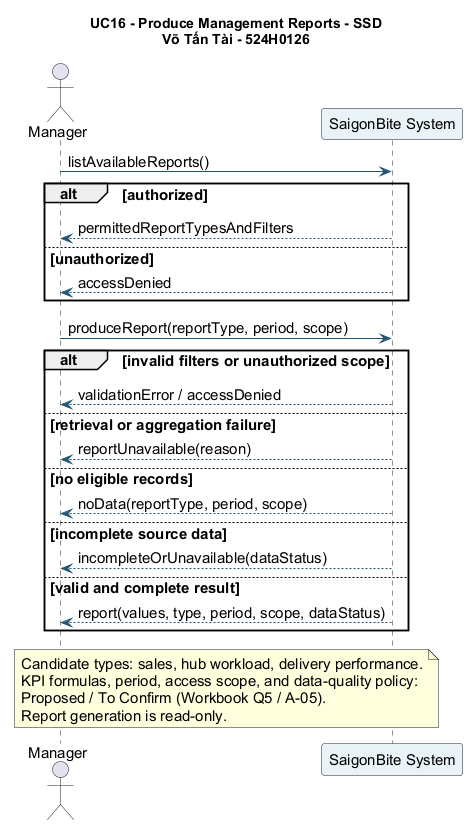
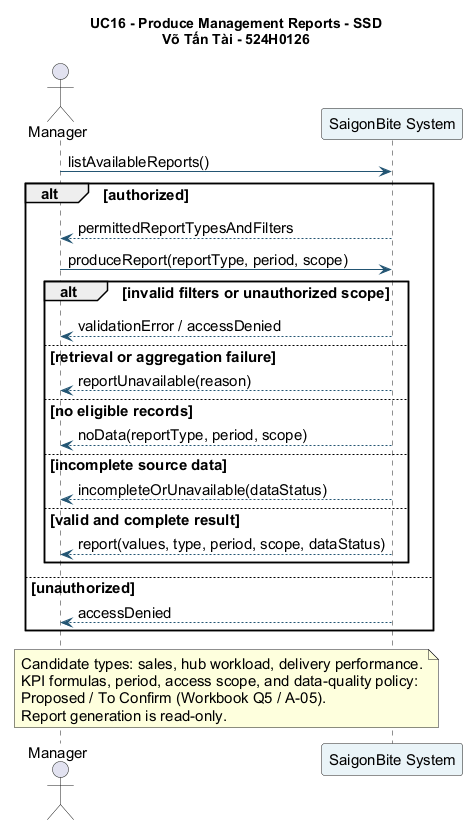
docs(tai): finalize sprint1 part2 deliverables

Changed region(s): [[0.0297, 0.2106, 0.9195, 0.7822], [0.0593, 0.7521, 0.089, 0.7822]]

diff --git a/TAI_FINAL_CHECKLIST.md b/TAI_FINAL_CHECKLIST.md
@@ -1,0 +1,39 @@
+# Tài Final Checklist — SaigonBite Sprint 1 Part 2
+
+**Owner:** Võ Tấn Tài — 524H0126
+**Branch:** `feature/tai-uc13-uc16`
+**Review standard:** PASS means the named artifact or technical property was directly checked. It does not imply client approval. FAIL marks an observed contradiction. NOT VERIFIED marks a requirement whose source or approval evidence is unavailable.
+
+| Requirement | File path | Status | Evidence | Remaining issues |
+|---|---|---|---|---|
+| UC13 Use Case Description | [UC13.md](docs/sprint1/UC13_ManageHubs/UC13.md) | PASS | Goal, actor, trigger, pre/postconditions, one Create main flow, alternatives, exceptions and rules reviewed. | Actor, capacity and deletion rules are Proposed. |
+| UC13 Activity Diagram | [13-activity.puml](docs/sprint1/UC13_ManageHubs/diagrams/13-activity.puml), [PNG](docs/sprint1/UC13_ManageHubs/diagrams/13-activity.png) | PASS | PlantUML syntax/render and visual review; CRUD/error branches present. | Business rules remain unapproved. |
+| UC13 SSD | [13-ssd.puml](docs/sprint1/UC13_ManageHubs/diagrams/13-ssd.puml), [PNG](docs/sprint1/UC13_ManageHubs/diagrams/13-ssd.png) | PASS | Actor/system boundary, CRUD events and responses checked; operations are inside authorized-view branch. | Operation-level permission matrix To Confirm. |
+| UC13 Design Classes | [UC13-design.md](docs/sprint1/UC13_ManageHubs/UC13-design.md) | PASS | Boundary/View, Controller, Domain, Data Access, attributes, methods and visibility listed. | Value types and rules are conceptual. |
+| UC13 Design Class Diagram | [13-design-class.puml](docs/sprint1/UC13_ManageHubs/diagrams/13-design-class.puml), [PNG](docs/sprint1/UC13_ManageHubs/diagrams/13-design-class.png) | PASS | PlantUML syntax/render and visual review; layer relationships present. | Removal policy pending. |
+| UC13 CRC Cards | [UC13-design.md](docs/sprint1/UC13_ManageHubs/UC13-design.md) | PASS | Six classes have responsibilities and collaborators. | No client validation. |
+| UC13 CRUD Verification table | [UC13-design.md](docs/sprint1/UC13_ManageHubs/UC13-design.md) | PASS | Create/Read/Update/Delete rows include preconditions, expected results and errors. | Delete/archive policy pending. |
+| UC13 CRUD coverage approved | [workbook](references/TeamF4_RAD_Team_Workbook_Part1.xlsx) | NOT VERIFIED | Workbook CRUD Check shows `Gap` for unconfirmed Delete. | Confirm role and removal/dependency policy; then re-check. |
+| UC16 Use Case Description | [UC16.md](docs/sprint1/UC16_ManagementReports/UC16.md) | PASS | Goal, Manager, trigger, pre/postconditions, main/alternative/exception flows and rules reviewed. | KPI, period, scope permissions To Confirm. |
+| UC16 Activity Diagram | [16-activity.puml](docs/sprint1/UC16_ManagementReports/diagrams/16-activity.puml), [PNG](docs/sprint1/UC16_ManagementReports/diagrams/16-activity.png) | PASS | PlantUML syntax/render and visual review; access, no-data, incomplete and failure paths shown. | Data-quality rule To Confirm. |
+| UC16 SSD | [16-ssd.puml](docs/sprint1/UC16_ManagementReports/diagrams/16-ssd.puml), [PNG](docs/sprint1/UC16_ManagementReports/diagrams/16-ssd.png) | PASS | Actor/system boundary and alternate responses checked; report request is inside authorized branch. | Scope permission matrix To Confirm. |
+| UC16 Design Classes | [UC16-design.md](docs/sprint1/UC16_ManagementReports/UC16-design.md) | PASS | Boundary, Controller, Domain, Data Access, attributes, methods and visibility listed. | Definition types and formulas To Confirm. |
+| UC16 Design Class Diagram | [16-design-class.puml](docs/sprint1/UC16_ManagementReports/diagrams/16-design-class.puml), [PNG](docs/sprint1/UC16_ManagementReports/diagrams/16-design-class.png) | PASS | PlantUML syntax/render and visual review; read-only source relationship shown. | Source mapping To Confirm. |
+| UC16 CRC Cards | [UC16-design.md](docs/sprint1/UC16_ManagementReports/UC16-design.md) | PASS | Eight class cards have responsibilities and collaborators. | No client validation. |
+| Overall Domain Class Model | [06-overall-domain.puml](docs/sprint1/shared/domain-model/06-overall-domain.puml), [PNG](docs/sprint1/shared/domain-model/06-overall-domain.png) | PASS | Nine conceptual classes including proposed OrderMilestone and derived ManagementReport, no UI/Controller/Repository; PlantUML rendered. | Draft from separate team branches needs integration review. |
+| Domain attributes and relationships | [model notes](docs/sprint1/shared/domain-model/06-overall-model-notes.md) | PASS | Attribute and association inventory traced to Thành's model, Tài's drafts and Khang's branch. | Proposed fields are not approved. |
+| Multiplicities drawn and documented | [06-overall-domain.puml](docs/sprint1/shared/domain-model/06-overall-domain.puml), [model notes](docs/sprint1/shared/domain-model/06-overall-model-notes.md) | PASS | Five core cardinalities preserved; proposed Brand and OrderMilestone cardinalities labelled. | Hub-to-MenuItem cardinality deliberately unencoded. |
+| Proposed multiplicities approved | [model notes](docs/sprint1/shared/domain-model/06-overall-model-notes.md) | NOT VERIFIED | No official Case Study/client answer confirms Brand, milestone or hub catalogue cardinalities. | Confirm before final model baseline. |
+| State Machine source and image | [07-overall-order-state.puml](docs/sprint1/shared/domain-model/07-overall-order-state.puml), [PNG](docs/sprint1/shared/domain-model/07-overall-order-state.png) | PASS | PlantUML rendered; choice splits COD/online proposed paths; UC07/UC10 transitions inspected. | Not a canonical Order status contract. |
+| Cross-six Order state consistency | [model notes](docs/sprint1/shared/domain-model/06-overall-model-notes.md) | FAIL | Khang's separate branch uses `PENDING_CONFIRMATION`, `ACCEPTED`, `READY_FOR_PICKUP`, `DELIVERY_FAILED`; Thành uses `Pending`, `Confirmed`, `Ready`, `Failed`. Reject leads to `CANCELLED` versus `Rejected`. | Team must agree status mapping, rejection outcome, payment/expiry and capacity release. |
+| Report Contribution | [report draft](docs/sprint1/tai-rad-report-contribution.md) | PASS | Sections I–III draft explains eight figures and links to existing PNGs. | Official template unavailable. |
+| Official RAD report completion | [report draft](docs/sprint1/tai-rad-report-contribution.md) | NOT VERIFIED | No official template or final integrated team report in this branch. | Obtain template; integrate and paginate with team. |
+| Workbook Contribution | [workbook](references/TeamF4_RAD_Team_Workbook_Part1.xlsx) | PASS | 13 sheets retained, formulas preserved, no cached formula errors; Tài ownership, Draft requirements, CRUD gap, contribution and AI log checked. Other members' cells unchanged. | Commit count is a snapshot through `af1fa21`; Q5 and UC13 scope remain open. |
+| UML source files | [UC13](docs/sprint1/UC13_ManageHubs/diagrams/13-activity.puml), [UC16](docs/sprint1/UC16_ManagementReports/diagrams/16-activity.puml), [overall](docs/sprint1/shared/domain-model/06-overall-domain.puml) | PASS | All 31 repository `.puml` files, including Tài's eight, passed `-checkonly`. | Khang's separate `.drawio` files were not PlantUML-checked. |
+| PNG output files | [figure register](docs/sprint1/tai-rad-report-contribution.md) | PASS | Eight PNGs re-rendered after corrections; all eight byte hashes match source renders, and changed PNGs were visually inspected. | Final report placement remains open. |
+| Author information | [report draft](docs/sprint1/tai-rad-report-contribution.md), [README](docs/sprint1/tai/README.md) | PASS | Võ Tấn Tài — 524H0126 is present in documents and all eight diagrams. | None. |
+| Client-approved business rules | [UC13](docs/sprint1/UC13_ManageHubs/UC13.md), [UC16](docs/sprint1/UC16_ManagementReports/UC16.md) | NOT VERIFIED | Available assumptions are explicitly Proposed / To Confirm; Q5 has no lecturer answer. | Obtain official sources and client decisions. |
+
+## Review boundary
+
+Khang's UC03/UC04 drafts were read from `origin/feature/khang-uc03-uc04` without merging or modifying that branch. Thành's UC07/UC10 files and earlier shared diagrams were not changed. The final readiness decision is **ready for Team F4 review, not yet ready for canonical integration or client approval**.

diff --git a/docs/sprint1/shared/domain-model/06-overall-model-notes.md b/docs/sprint1/shared/domain-model/06-overall-model-notes.md
@@ -2,14 +2,14 @@
 
 **Author:** Võ Tấn Tài — 524H0126
 
-**Status:** Proposed integration model for UC03, UC04, UC07, UC10, UC13 and UC16. This does not replace the UC07/UC10 diagrams by Lê Đỗ Minh Thành. The original Case Study, Final Project Requirements and RAD Report Template are unavailable in the audited files.
+**Status:** Proposed integration model for UC03, UC04, UC07, UC10, UC13 and UC16. This does not replace the UC07/UC10 diagrams by Lê Đỗ Minh Thành. The original Case Study, Final Project Requirements and RAD Report Template are unavailable in the audited files. UC03/UC04 drafts were discovered on `origin/feature/khang-uc03-uc04` during final review; they are not merged into Tài's branch.
 
 ## Evidence and coverage
 
 | Use case | Evidence in repository | Model contribution | Status |
 |---|---|---|---|
-| UC03 Place Order | Placeholder directory only; existing shared flow and UC07 precondition say an Order enters Pending after checkout. | Customer, Order, OrderLine, MenuItem, Hub; initial Pending. | Proposed pending Khang's specification. |
-| UC04 Track Order | Placeholder directory only; UC07 and UC10 state that Customer sees updates through UC04. | Reads Order.status; no state change. | Proposed pending Khang's specification. |
+| UC03 Place Order | Khang's draft on a separate remote branch specifies COD as `PENDING_CONFIRMATION`, online as `AWAITING_PAYMENT`, plus order/address/price snapshots. The current branch still has only a placeholder. | Customer, Order, OrderLine, MenuItem, Hub; proposed payment status and online waiting state. | Cross-branch draft; not team reconciled. |
+| UC04 Track Order | Khang's draft on a separate remote branch specifies ownership-scoped read, milestones and timestamps. The current branch still has only a placeholder. | Reads Order.status and proposed OrderMilestone; no state change. | Cross-branch draft; not team reconciled. |
 | UC07 Confirm/Reject Order | UC07 description and Thành's domain/state diagrams. | Pending to Confirmed or Rejected; rejectionReason. | Team draft; role/assumptions require confirmation. |
 | UC10 Deliver Order | UC10 description and Thành's domain/state diagrams. | Ready to OutForDelivery, then Delivered or Failed; Shipper, cashCollected, failureReason. | Team draft; COD and assignment rules require confirmation. |
 | UC13 Manage Hubs and Kitchen Capacity | Tài's UC13 draft; no Case Study source. | Hub.capacitySetting; no direct Order state change. | Proposed; UC13/UC14 ownership conflict. |
@@ -25,8 +25,9 @@ UC08 Prepare Order and UC05 Cancel/Edit Order are included only as transitions r
 | Hub | `hubId`; `name`, `capacitySetting` proposed | Existing hub identity; UC13 requests capacity management but does not define unit or bounds. |
 | Brand | `brandId`, `name` proposed | Proposal and workbook mention brand/menu browsing and UC14, but no approved specification is present. |
 | MenuItem | `menuItemId`; `name`, `currentPrice` proposed | Existing menu item identity; browsing and order line pricing imply candidate descriptive fields. |
-| Order | `id`, `status`, `paymentMethod`, `totalDue`, optional `rejectionReason`, `failureReason`, `cashCollected`; `placedAt` proposed | Core fields from Thành's model. `placedAt` is a candidate for report periods and awaits definition. |
-| OrderLine | `quantity`, `unitPrice` | Existing model; `unitPrice` is the price recorded with the order line, not a claim about price-update policy. |
+| Order | `id`, `status`, `paymentMethod`, `totalDue`, optional `rejectionReason`, `failureReason`, `cashCollected`; `paymentStatus`, `deliveryAddressSnapshot`, `clientRequestId`, `placedAt`, `updatedAt` proposed | Core fields from Thành's model; added fields are proposed from Khang's UC03/UC04 drafts on a separate branch. |
+| OrderLine | `quantity`, `unitPrice`; `nameSnapshot` proposed | Existing quantity and unit price; Khang's draft proposes a name snapshot. |
+| OrderMilestone | `status`, `occurredAt` proposed | Khang's UC04 tracking draft uses milestones; persistence and source of timestamps need confirmation. |
 | Shipper | `shipperId` | Existing model. |
 | ManagementReport | `reportType`, `period`, `scope`, `dataStatus` proposed | Derived business result for UC16; persistence is not confirmed. |
 
@@ -40,6 +41,7 @@ No boundary, controller, repository or other software-layer class is included in
 | Hub fulfils Order | Hub `1` to Order `0..*`; each Order has `1` Hub. | Preserved from Thành's domain model; reassignment after overload remains To Confirm. |
 | Shipper assigned to Order | Order has `0..1` current Shipper; Shipper may have `0..*` Orders. | Preserved from Thành's domain model; assignment policy remains To Confirm. |
 | Order contains OrderLine | Order `1` composition to `1..*` OrderLines. | Preserved from Thành's domain model; order editing policy remains To Confirm. |
+| Order records OrderMilestone | Order `1` composition to `0..*` proposed milestones. | **Proposed / To Confirm** from Khang's UC04 draft; event storage and lifecycle need agreement. |
 | OrderLine refers to MenuItem | Each OrderLine refers to `1` MenuItem; a MenuItem may appear in `0..*` OrderLines. | Preserved from Thành's domain model. |
 | Brand groups MenuItem | Each MenuItem has `1` Brand; a Brand has `0..*` MenuItems. | **Proposed / To Confirm**; no UC03/UC04 specification validates this cardinality. |
 | Hub offers MenuItem | Not encoded until cardinality is known. | **To Confirm**; hub-specific availability and an association class may be needed once requirements arrive. |
@@ -49,6 +51,6 @@ Constraints requiring confirmation: hub capacity unit/bounds/effective time; hub
 
 ## Order lifecycle consistency
 
-`Pending` follows a valid UC03 checkout in the existing team flow. UC07 can move `Pending` to `Confirmed` or `Rejected`. UC08 bridges `Confirmed` through `Preparing` to `Ready`. UC10 moves `Ready` to `OutForDelivery`, then to either `Delivered` or `Failed`. Thành's diagram also allows `Pending` to `Cancelled` via UC05. UC04 observes state; UC13 maintains Hub data; UC16 derives read-only reports. Terminal states have no outgoing business transition in the current draft.
+The revised proposed state model shows COD placement into `Pending` and online placement into `AwaitingPayment`. The latter moves to `Pending` only after a verified payment event, or to `Cancelled` on expiry. These online branches come from Khang's UC03 draft and are not yet accepted by the team. UC07 can move `Pending` to `Confirmed` or `Rejected`. UC08 bridges `Confirmed` through `Preparing` to `Ready`. UC10 moves `Ready` to `OutForDelivery`, then to either `Delivered` or `Failed`. Thành's diagram also allows `Pending` to `Cancelled` via UC05. UC04 observes state; UC13 maintains Hub data; UC16 derives read-only reports. Terminal states have no outgoing business transition in this draft.
 
-The state names and transitions are consistent with the available UC07/UC10 drafts and Thành's state diagram. Because UC03/UC04 and the official Case Study are absent, initial state, cancellation eligibility, terminal-state policy and any additional states remain **To Confirm**.
+The two team drafts conflict on state vocabulary and one outcome. Candidate name mappings are `Pending` ↔ `PENDING_CONFIRMATION`, `Confirmed` ↔ `ACCEPTED`, `Ready` ↔ `READY_FOR_PICKUP`, and `Failed` ↔ `DELIVERY_FAILED`. These are **not** approved mappings. Thành's UC07 uses `Rejected`, while Khang's Order lifecycle routes reject to `CANCELLED`; those outcomes cannot be treated as equivalent without a decision about reason, refund and tracking semantics. Khang's `AWAITING_PAYMENT` is absent from Thành's model. The team must settle the canonical status set, payment transitions, cancellation/expiry, capacity release and milestone source before integration. Cross-six consistency **FAILS between the current drafts**; the correct canonical resolution remains **NOT VERIFIED** because the official Case Study is unavailable.

diff --git a/docs/sprint1/tai-rad-report-contribution.md b/docs/sprint1/tai-rad-report-contribution.md
@@ -10,7 +10,7 @@
 | Report section | Contribution to integrate | Evidence / required team action |
 |---|---|---|
 | I. Business Requirements | State that hub management/capacity and management reporting are candidate business capabilities. Record Q1/A-01 for hub overload and Q5/A-05 for report metrics as open assumptions. Identify UC13 versus UC14 ownership conflict. | Team Workbook Client Q&A and Assumption Log; proposal. Do not mark client approval without lecturer response. |
-| II. System Requirements Analysis | Include UC13 and UC16 use case descriptions, Activity and SSD figures; overall domain model and Order state machine; the six-UC consistency and multiplicity notes below. | UC13/UC16 drafts and shared model source files. Confirm UC03/UC04 with Khang and UC07/UC10 with Thành. |
+| II. System Requirements Analysis | Include UC13 and UC16 use case descriptions, Activity and SSD figures; overall domain model and Order state machine; the cross-branch consistency and multiplicity notes below. | UC13/UC16 drafts and shared model source files. Reconcile Khang's UC03/UC04 state terms with Thành's UC07/UC10 before team integration. |
 | III. System Requirements Design | Include UC13 and UC16 boundary/controller/domain/data-access classes, design class diagrams, CRC cards, UC13 CRUD verification and UC16 report logic review. | Design documents and PNG figures listed below. Confirm policies before final design approval. |
 
 The official template may use different numbering or captions. Transfer content only after obtaining it and preserving its headings and instructions.
@@ -41,13 +41,13 @@ The [UC16 use case specification](UC16_ManagementReports/UC16.md) describes a Ma
 
 ### Overall domain class model
 
-**Purpose:** Bring order placement/tracking, kitchen decision, delivery, hub management and reporting into one conceptual vocabulary. **Main components:** `Customer`, `Order`, `OrderLine`, `MenuItem`, `Hub`, `Shipper`, proposed `Brand`, and a derived proposed `ManagementReport`. **Business meaning:** A customer places orders; an order belongs to one hub, contains order lines and may have a current shipper; hub capacity is business data, while a management report is derived rather than a confirmed persistent record. **Related use cases:** UC03, UC04, UC07, UC10, UC13 and UC16. The [model notes](shared/domain-model/06-overall-model-notes.md) record attributes, multiplicities and their evidence. No UI, controller or repository class appears in this diagram.
+**Purpose:** Bring order placement/tracking, kitchen decision, delivery, hub management and reporting into one conceptual vocabulary. **Main components:** `Customer`, `Order`, `OrderLine`, proposed `OrderMilestone`, `MenuItem`, `Hub`, `Shipper`, proposed `Brand`, and a derived proposed `ManagementReport`. **Business meaning:** A customer places orders; an order belongs to one hub, contains order lines and may have a current shipper; tracking milestones and hub capacity are candidate business data, while a management report is derived rather than a confirmed persistent record. **Related use cases:** UC03, UC04, UC07, UC10, UC13 and UC16. The [model notes](shared/domain-model/06-overall-model-notes.md) record attributes, multiplicities and their evidence. No UI, controller or repository class appears in this diagram.
 
-The five core associations and multiplicities match Thành's existing UC07/UC10 model. Brand-to-MenuItem (`1` to `0..*`) is proposed. Hub-to-MenuItem availability is left unencoded until its cardinality is known. `placedAt`, hub capacity details and report attributes are also proposed. No model attribute is presented as a confirmed requirement when its source is absent.
+The five core associations and multiplicities match Thành's existing UC07/UC10 model. Brand-to-MenuItem (`1` to `0..*`) and Order-to-OrderMilestone (`1` to `0..*`) are proposed. Hub-to-MenuItem availability is left unencoded until its cardinality is known. Added payment, address, timestamp, milestone, capacity and report attributes are proposed from the available drafts. No model attribute is presented as a confirmed requirement when its source is absent.
 
 ### Order state machine
 
-**Purpose:** Check that the Order lifecycle agrees with placement, kitchen confirmation/preparation and delivery. **Main components:** `Pending`, `Confirmed`, `Rejected`, `Cancelled`, `Preparing`, `Ready`, `OutForDelivery`, `Delivered` and `Failed`, with event labels and guards. **Business meaning:** UC07 decides a Pending order; UC08 prepares it; UC10 records pickup and final delivery result. UC04 observes state, UC13 manages Hub data and UC16 reads data without moving the Order. **Related use cases:** UC03, UC04, UC07, UC10, UC13 and UC16, with UC05/UC08 shown as necessary neighbouring transitions. The model follows Thành's state diagram without overwriting it. Initial checkout state, cancellation eligibility and full status policy remain To Confirm.
+**Purpose:** Check the proposed Order lifecycle against placement, kitchen confirmation/preparation and delivery. **Main components:** `AwaitingPayment`, `Pending`, `Confirmed`, `Rejected`, `Cancelled`, `Preparing`, `Ready`, `OutForDelivery`, `Delivered` and `Failed`, with event labels and guards. **Business meaning:** Khang's UC03 draft adds an online-payment waiting path; UC07 decides a Pending order; UC08 prepares it; UC10 records pickup and final delivery result. UC04 observes state, UC13 manages Hub data and UC16 reads data without moving the Order. **Related use cases:** UC03, UC04, UC07, UC10, UC13 and UC16, with UC05/UC08 and supporting payment shown as neighbouring transitions. Thành's status names are retained for the fulfilment path, while Khang's different labels and rejection outcome require team reconciliation. The figure is not a canonical state contract.
 
 ## Section III contribution — design model
 
@@ -78,10 +78,11 @@ For PowerPoint, use the same captions in shortened form and keep “Proposed” 
 
 | Check | Result / required follow-up |
 |---|---|
-| UC03 and UC04 files | Only placeholders exist in the repository. Verify Order creation, tracking permissions and catalogue relationships when Khang's specifications arrive. |
+| UC03 and UC04 files | This branch has placeholders. Khang's draft specifications and diagrams are on `origin/feature/khang-uc03-uc04`; they were reviewed without merging. Integrate only after team review. |
 | UC07 and UC10 | The Order lifecycle and core domain associations follow Thành's drafts. Their cited assumptions remain team drafts, not client approvals. |
 | UC13 versus UC14 | Proposal and workbook assign UC14; current task assigns UC13. Team must approve the ownership and scope change. |
 | Capacity and overload | Units, bounds, effective time, routing and customer consent remain open. |
+| Order status vocabulary | Khang uses `PENDING_CONFIRMATION`, `ACCEPTED`, `READY_FOR_PICKUP`, `DELIVERY_FAILED` and `AWAITING_PAYMENT`; Thành uses `Pending`, `Confirmed`, `Ready`, `Failed` and a separate `Rejected`. Rejection versus cancellation and online payment require an explicit decision. |
 | Report metrics | KPI formulas, inclusion rules, period/timezone, access scope and data-quality policy remain open under Q5/A-05. |
 | Figure quality | PlantUML syntax and PNG rendering were checked; final report pagination and caption numbering await the official template. |
 

diff --git a/docs/sprint1/tai/README.md b/docs/sprint1/tai/README.md
@@ -1,0 +1,77 @@
+# SaigonBite Sprint 1 Part 2 — Võ Tấn Tài Deliverables
+
+## Project Overview
+
+SaigonBite is Team F4's proposed cloud-kitchen ordering and delivery system. This folder is the entry point to Võ Tấn Tài's analysis and design contribution for UC13, UC16, the overall domain model and the Order state machine. These are editable Sprint 1 drafts for team review. They are not a client-approved system specification.
+
+## Owner Information
+
+- Student: Võ Tấn Tài
+- Student ID: 524H0126
+- Working branch: `feature/tai-uc13-uc16`
+- Scope: UC13 Manage Hubs and Kitchen Capacity; UC16 Produce Management Reports; overall domain and Order lifecycle models; report integration draft; workbook contribution.
+
+## UC13
+
+The [use case description](../UC13_ManageHubs/UC13.md) covers goal, actor, preconditions, postconditions, the Create main scenario, Read/Update/Delete alternatives, errors and proposed rules. The [design document](../UC13_ManageHubs/UC13-design.md) contains boundary, controller, domain and data-access classes, CRC cards and CRUD verification. The diagram sources and PNGs are in `docs/sprint1/UC13_ManageHubs/diagrams/`:
+
+| Diagram | Editable source | Rendered image |
+|---|---|---|
+| Activity | [13-activity.puml](../UC13_ManageHubs/diagrams/13-activity.puml) | [13-activity.png](../UC13_ManageHubs/diagrams/13-activity.png) |
+| System Sequence Diagram | [13-ssd.puml](../UC13_ManageHubs/diagrams/13-ssd.puml) | [13-ssd.png](../UC13_ManageHubs/diagrams/13-ssd.png) |
+| Design Class Diagram | [13-design-class.puml](../UC13_ManageHubs/diagrams/13-design-class.puml) | [13-design-class.png](../UC13_ManageHubs/diagrams/13-design-class.png) |
+
+The actor, capacity units/limits and hub removal policy remain **Proposed / To Confirm**. The proposal/workbook originally assigned UC14 brand/menu management to this student, so UC13 ownership needs a team decision.
+
+## UC16
+
+The [use case description](../UC16_ManagementReports/UC16.md) covers an authorized Manager's report request, filters, results and failure paths. The [design document](../UC16_ManagementReports/UC16-design.md) contains classes, CRC cards and checks for permission, data quality and aggregation. Diagram sources and PNGs are in `docs/sprint1/UC16_ManagementReports/diagrams/`:
+
+| Diagram | Editable source | Rendered image |
+|---|---|---|
+| Activity | [16-activity.puml](../UC16_ManagementReports/diagrams/16-activity.puml) | [16-activity.png](../UC16_ManagementReports/diagrams/16-activity.png) |
+| System Sequence Diagram | [16-ssd.puml](../UC16_ManagementReports/diagrams/16-ssd.puml) | [16-ssd.png](../UC16_ManagementReports/diagrams/16-ssd.png) |
+| Design Class Diagram | [16-design-class.puml](../UC16_ManagementReports/diagrams/16-design-class.puml) | [16-design-class.png](../UC16_ManagementReports/diagrams/16-design-class.png) |
+
+Sales, hub workload and delivery performance are candidate categories. KPI formulas, periods, scope permissions and completeness rules remain **To Confirm** under workbook Q5/A-05.
+
+## Domain Class Model
+
+The [overall domain source](../shared/domain-model/06-overall-domain.puml) and [PNG](../shared/domain-model/06-overall-domain.png) cover Customer, Order, OrderLine, Hub, Shipper, MenuItem and proposed Brand, OrderMilestone and derived ManagementReport concepts. The [model notes](../shared/domain-model/06-overall-model-notes.md) list attributes, associations, multiplicities, constraints and evidence. The diagram contains domain concepts only; no View, Controller or Repository class appears in it.
+
+Five core associations are preserved from Thành's UC07/UC10 diagram. Additional attributes/milestones draw on Khang's UC03/UC04 drafts on `origin/feature/khang-uc03-uc04`, which were read without merging. Candidate cardinalities are labelled Proposed and require team review.
+
+## State Machine
+
+The [Order state source](../shared/domain-model/07-overall-order-state.puml) and [PNG](../shared/domain-model/07-overall-order-state.png) show placement, confirmation/rejection, preparation, pickup, delivery and failure. A proposed online-payment waiting branch comes from Khang's draft. This is **not yet a canonical team state contract**: Khang and Thành use different status names, and Khang routes rejection to `CANCELLED` while Thành uses `Rejected`. The [model notes](../shared/domain-model/06-overall-model-notes.md) record the discrepancy and decisions needed.
+
+## Documentation Structure
+
+- `docs/sprint1/UC13_ManageHubs/`: UC13 specification, design/CRC/CRUD document, `.puml` sources and `.png` images.
+- `docs/sprint1/UC16_ManagementReports/`: UC16 specification, design/CRC document, `.puml` sources and `.png` images.
+- `docs/sprint1/shared/domain-model/06-overall-*` and `07-overall-order-state.*`: Tài's integration models; Thành's `04-domain.*` and `05-order-state.*` remain separate.
+- [RAD report contribution](../tai-rad-report-contribution.md): Sections I–III draft, diagram explanations and eight figure captions for Word/PowerPoint.
+- `references/TeamF4_RAD_Team_Workbook_Part1.xlsx`: updated team workbook copy; the original file outside the repository remains untouched.
+- [Final checklist](../../../TAI_FINAL_CHECKLIST.md): requirement-by-requirement PASS, FAIL and NOT VERIFIED evidence.
+
+## UML Rendering Instructions
+
+Install Java and obtain a PlantUML JAR. From the repository root, replace `<plantuml.jar>` with its local path and run the commands below for any source file. PNGs are written beside the `.puml` source.
+
+```text
+java -jar <plantuml.jar> -charset UTF-8 -checkonly docs/sprint1/UC13_ManageHubs/diagrams/13-activity.puml
+java -jar <plantuml.jar> -charset UTF-8 -tpng docs/sprint1/UC13_ManageHubs/diagrams/13-activity.puml
+```
+
+Repeat for the eight `.puml` files linked above. The final QA used PlantUML `1.2026.10`; every PNG was regenerated and compared with its editable source.
+
+## Deliverables and Verification Results
+
+Eight PlantUML sources have matching rendered PNGs. Syntax checking and image inspection passed for the eight diagrams. UC13/UC16 descriptions, design documents, CRC cards and report links were checked against their diagrams. The workbook retained 13 sheets and its formulas; only Tài-owned content was edited. Exact evidence and remaining issues are in the [final checklist](../../../TAI_FINAL_CHECKLIST.md).
+
+## Known Limitations
+
+- The original SaigonBite Case Study, Final Project Requirements and official RAD Report Template were unavailable. The report contribution is an independent draft, not the official completed report.
+- UC13 versus UC14 ownership must be settled by Team F4. Capacity, hub removal, report KPI/period and access policies await a client/lecturer answer.
+- UC03/UC04 drafts are on Khang's separate branch and have not been merged. Their Order status names and rejection outcome conflict with Thành's drafts. The current cross-six state consistency check **fails**; a shared status contract remains unverified.
+- The workbook commit count is a dated snapshot through `af1fa21`; Git history is the authoritative count after this final review commit.

diff --git a/docs/sprint1/UC13_ManageHubs/UC13.md b/docs/sprint1/UC13_ManageHubs/UC13.md
@@ -19,32 +19,31 @@ The repository contains a placeholder for UC13. The Team F4 proposal and both wo
 | Success postconditions | Create: a new hub and its submitted capacity setting are recorded. Read: hub details are returned without mutation. Update: approved changes are recorded. Delete: the system applies the confirmed removal or archival policy and returns its result (**policy To Confirm**). |
 | Minimal guarantee | Validation or authorization failure leaves stored hub data unchanged. A failed write reports failure; if the response is lost after a write, the actor reads the hub again before retrying. |
 
-### Main success scenario
+### Main success scenario — Create a hub
 
 1. The actor opens hub management. The system displays the hubs the actor is permitted to view.
-2. The actor selects **Create**, **Read**, **Update**, or **Delete**. The system requests the relevant input or hub identifier.
-3. For Create or Update, the actor submits hub details and a kitchen capacity setting. The system checks authorization, required data, value validity, and any confirmed uniqueness rules.
-4. For Read, the system retrieves and displays the selected hub and its capacity setting.
-5. For Create or Update, the system records the validated values and returns the resulting hub details.
-6. For Delete, the system checks the confirmed removal policy and dependencies, applies the permitted action, and returns the outcome.
+2. The actor selects **Create**. The system presents the required hub and capacity inputs.
+3. The actor submits hub details and a kitchen capacity setting.
+4. The system checks Create permission, required data, capacity validity and any confirmed uniqueness rules.
+5. The system records the validated hub and capacity setting.
+6. The system returns the new hub identifier and recorded details.
 
-Steps 3 and 6 describe candidate system behaviour. Their exact validation thresholds, dependencies, and retention rules are **To Confirm**.
+The exact validation thresholds and uniqueness rules in step 4 are **To Confirm**. Only one CRUD operation executes per selection; the other operations are alternative flows.
 
 ### Alternative flows
 
-- **A1 — Create:** At step 2, the actor chooses Create and enters a new hub. The system creates it after successful checks and returns its identifier and recorded capacity setting.
-- **A2 — Read:** At step 2, the actor chooses Read. The system returns the selected hub without changing it.
-- **A3 — Update capacity or hub details:** At step 2, the actor chooses Update. The system shows current values, accepts the edited values, checks them, and returns the updated record. Whether capacity changes affect existing orders is **To Confirm**.
-- **A4 — Delete or archive:** At step 2, the actor chooses Delete. The system first applies the confirmed dependency and retention policy. The choice between hard deletion, soft deletion, and blocking removal is **To Confirm**; this draft does not prescribe one.
-- **A5 — List/search:** The actor filters the hub list. Search fields, pagination, and sorting are **Proposed / To Confirm**.
+- **A1 — Read:** At step 2, the actor selects a hub for Read. The system checks Read permission and existence, then returns its details and capacity setting without mutation.
+- **A2 — Update capacity or hub details:** At step 2, the actor chooses Update. The system shows current values, accepts edits, checks Update permission, existence, validity and concurrent changes, then records and returns the updated record. Whether capacity changes affect existing orders is **To Confirm**.
+- **A3 — Delete or archive:** At step 2, the actor chooses Delete. The system checks Delete permission, existence, dependencies and the confirmed retention policy before returning the outcome. The choice between hard deletion, soft deletion and blocking removal is **To Confirm**; this draft does not prescribe one.
+- **A4 — List/search:** At step 1, the actor filters the hub list. Search fields, pagination and sorting are **Proposed / To Confirm**.
 
 ### Exception flows
 
 - **E1 — Unauthorized:** At any operation, the actor lacks the required permission. The system rejects the request without disclosing or changing protected hub data.
-- **E2 — Invalid input:** A required value is absent or a capacity value fails its confirmed validation rule. The system identifies the invalid field and makes no change. Capacity units and limits are **To Confirm**.
+- **E2 — Invalid input:** At step 4 or A2, a required value is absent or a capacity value fails its confirmed validation rule. The system identifies the invalid field and makes no change. Capacity units and limits are **To Confirm**.
 - **E3 — Hub not found:** A selected identifier is absent or unavailable. The system reports that the hub cannot be found and asks the actor to refresh the list.
 - **E4 — Duplicate or conflicting record:** A confirmed unique identifier conflicts with an existing hub, or another user changes the record before the write. The system rejects the stale/conflicting write and returns the current state where authorized. Uniqueness keys and concurrency policy are **To Confirm**.
-- **E5 — Removal blocked:** A confirmed dependency or retention rule prevents Delete. The system explains the block and preserves the record. Which dependencies block removal is **To Confirm**.
+- **E5 — Removal blocked:** At A3, a confirmed dependency or retention rule prevents Delete. The system explains the block and preserves the record. Which dependencies block removal is **To Confirm**.
 - **E6 — Persistence or response failure:** The system reports a failed write. If a response is lost after a possible write, the actor reads the record before retrying to avoid duplicate creation or unintended repeated changes.
 
 ### Business rules and open decisions

diff --git a/docs/sprint1/UC13_ManageHubs/UC13-design.md b/docs/sprint1/UC13_ManageHubs/UC13-design.md
@@ -44,7 +44,7 @@
 | Update | Actor has Update permission; hub exists; changes are valid; record is current. | Updated hub is persisted and returned. | Unauthorized, absent, invalid, concurrent change or write failure: prior data preserved. |
 | Delete / archive | Actor has Delete permission; hub exists; confirmed retention/dependency policy permits the action. | Confirmed removal outcome is returned. | Unauthorized, absent, blocked dependency or write failure: hub preserved. **Deletion mode is To Confirm.** |
 
-The workbook's CRUD Check sheet is currently unfilled. This table verifies the **candidate UC13 design only**; it does not establish a team-wide CRUD coverage result. The requirement to manage brands/menu items remains assigned to UC14 in the available proposal and workbooks and is not silently absorbed into UC13.
+The workbook's CRUD Check has a candidate Hub row and reports a **Gap** for Delete because the removal policy is open. This table verifies the **candidate UC13 design only**; it does not establish team-wide CRUD coverage. The proposal assigns brand/menu management to UC14, while the current workbook flags its ownership conflict with UC13. UC14 is not silently absorbed into UC13.
 
 ## Consistency checks
 
